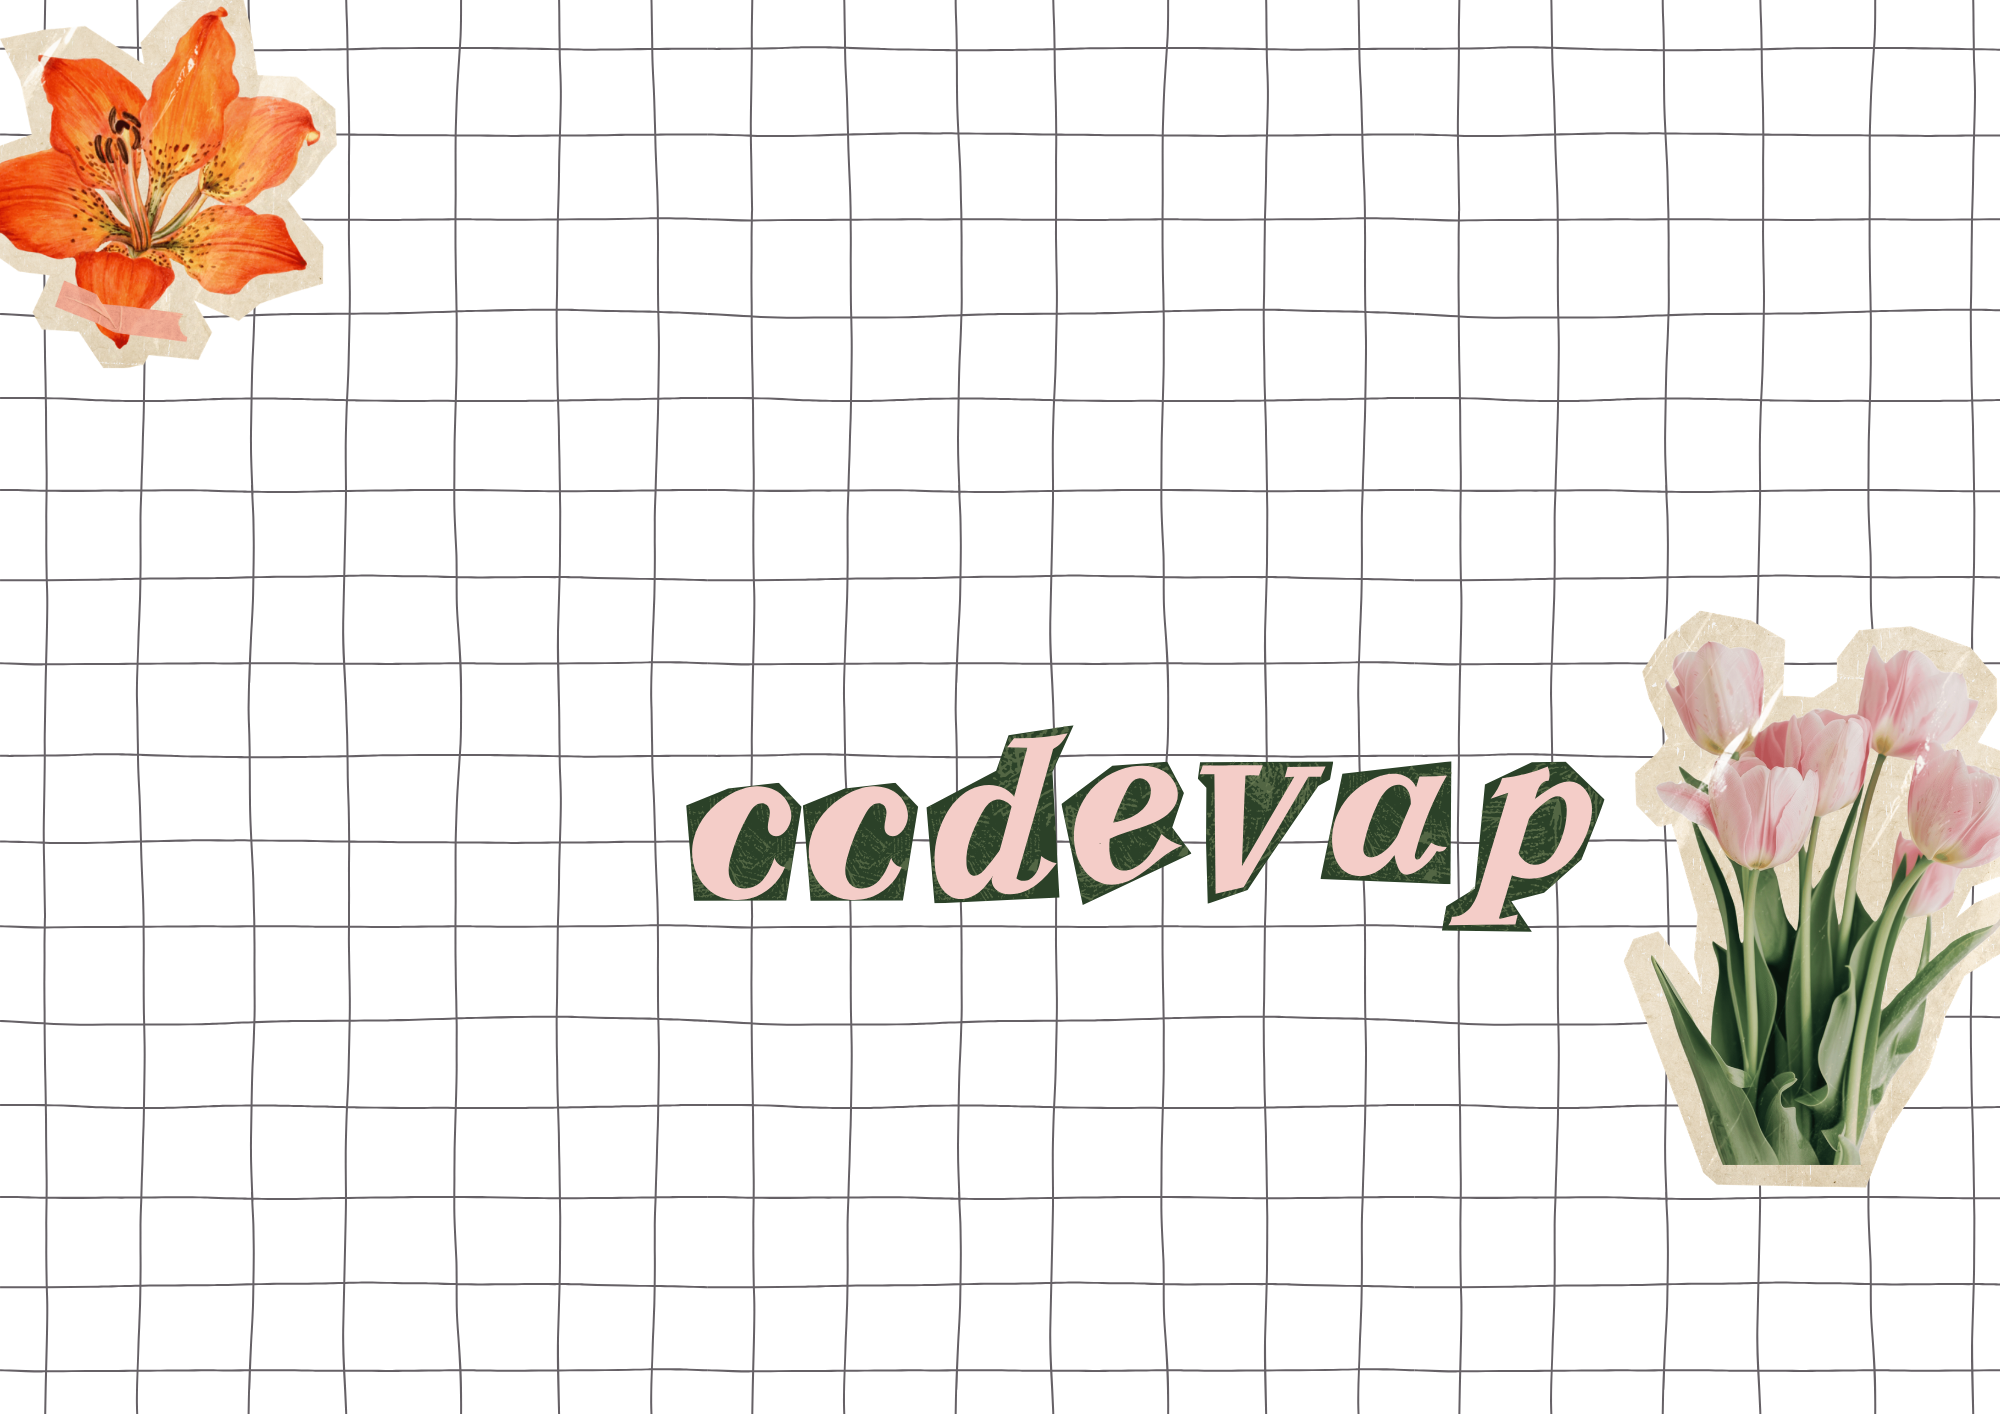
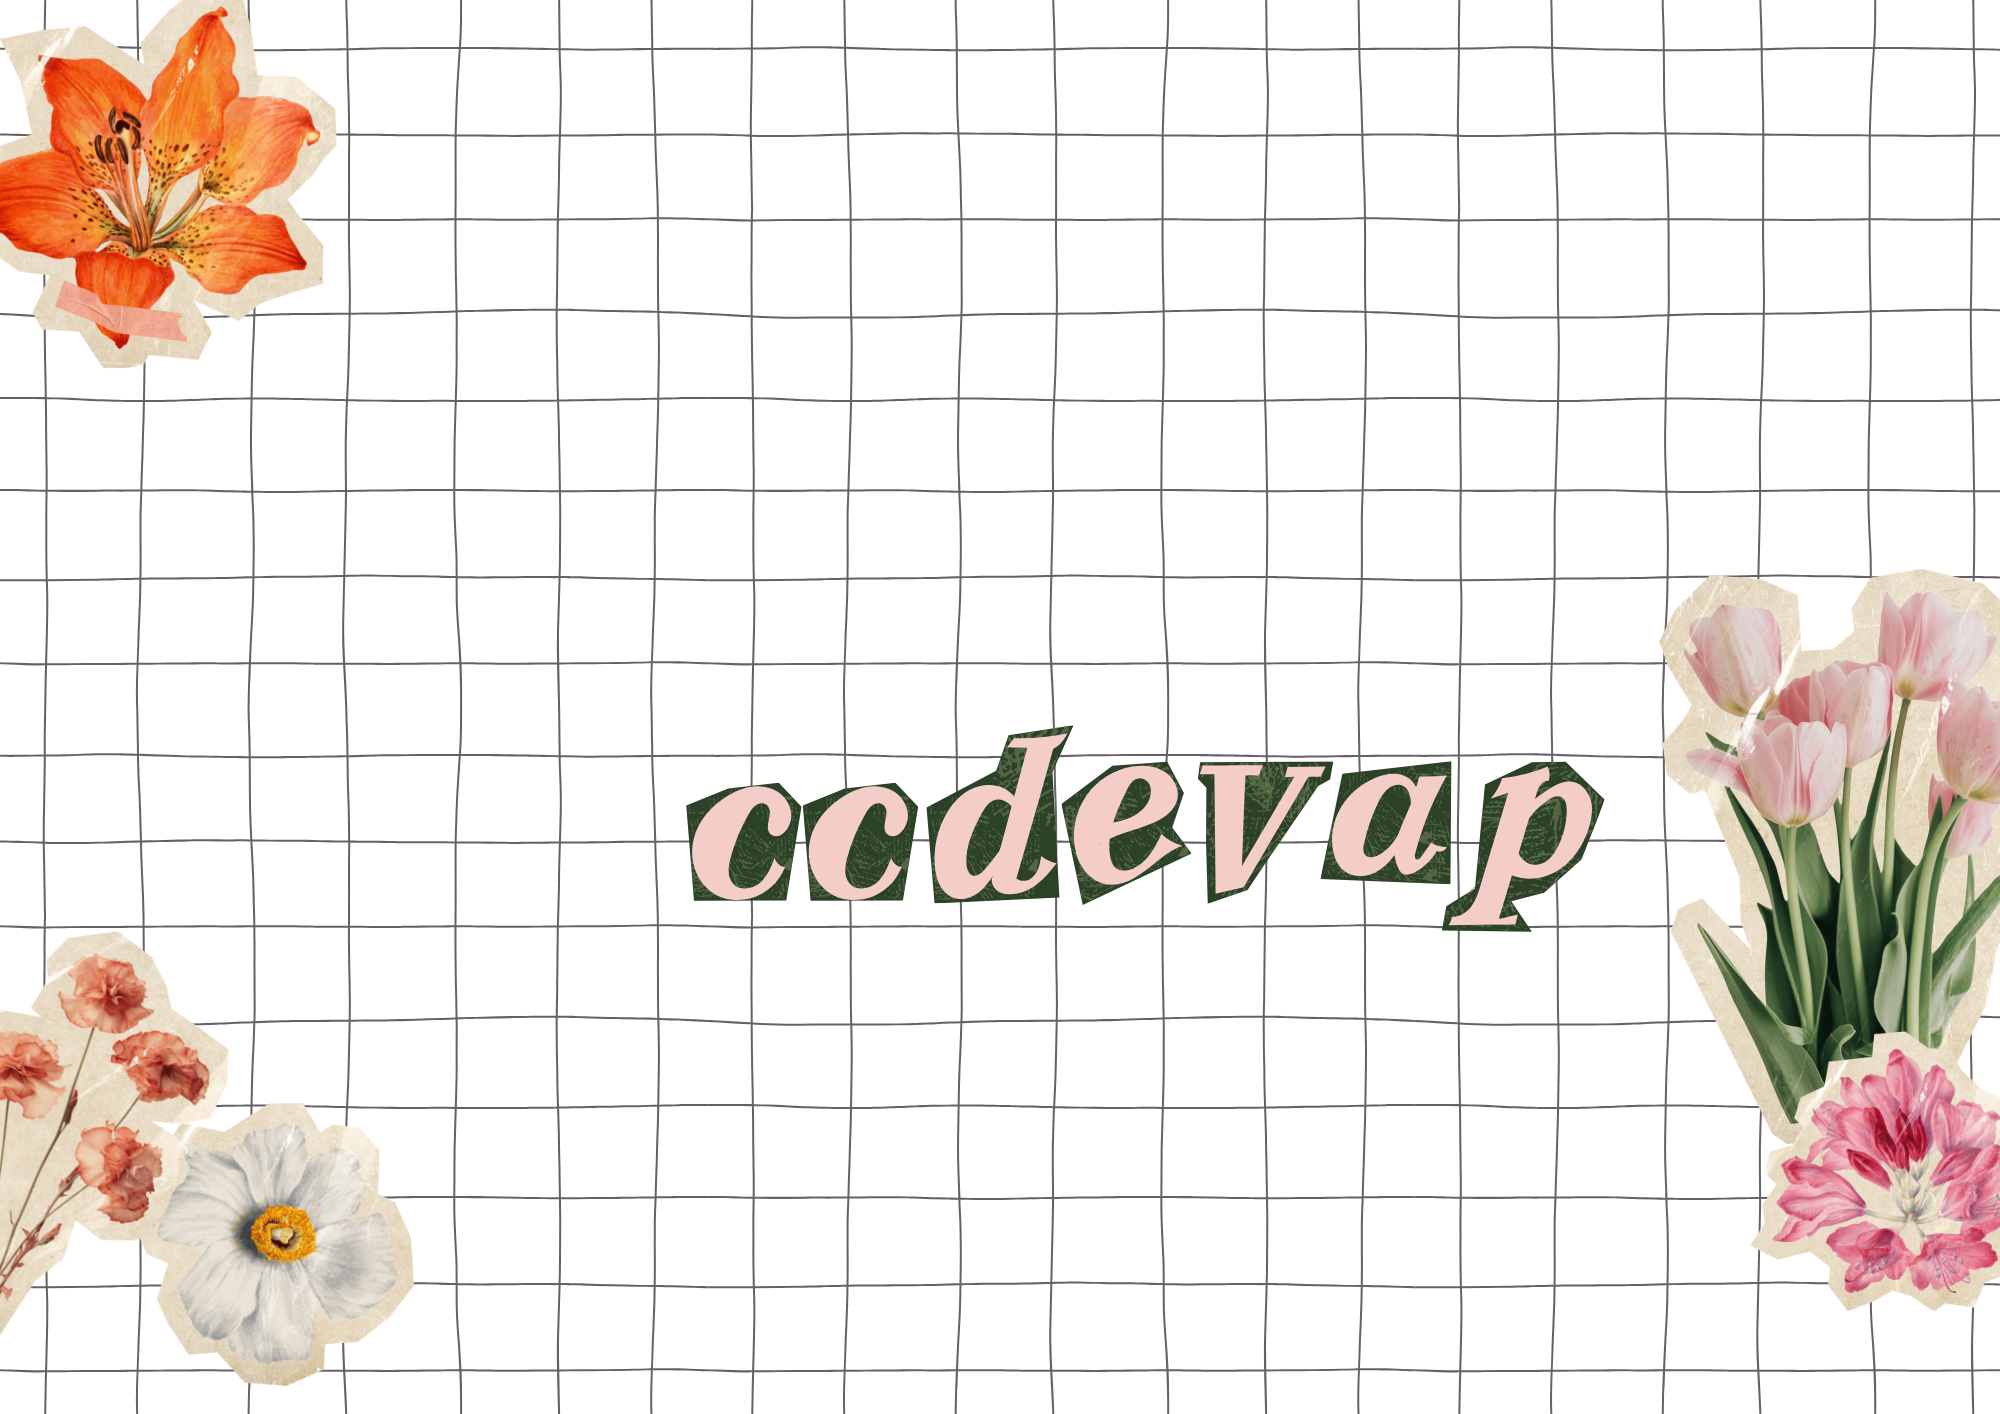
updated css

Changed region(s): [[0.806, 0.4045, 1.0, 0.9335], [0.0, 0.6535, 0.217, 0.9958]]

diff --git a/style.css b/style.css
@@ -16,19 +16,22 @@ header {
     outline: 1px solid black;
 }
 
+a {
+    color: black;
+}
+
 nav {
     display: flex;
     gap: 20px;
     font-size: 25px;
 }
 
-nav a {
+nav a{
     text-decoration: none;
-    /* font-size:25px; */
     color: black;
 }
 
-nav a:hover {
+nav a:hover, .top:hover, a:hover {
     color: rgb(180, 65, 180);
 }
 
@@ -53,7 +56,7 @@ select {
 
 footer {
     text-align: center;
-    margin-top: 100px;
+    margin-top: 50px;
 }
 
 .active {
@@ -91,7 +94,7 @@ footer {
     border: 1px solid black;
 }
 
-.intro p {
+.intro p, h3 {
     font-size: 24px;
     text-align: center;
 }
@@ -132,4 +135,23 @@ footer {
 .range input[type="range"] {
     width: 300px;
     accent-color: rgb(180, 65, 180);;
+}
+
+.contacts {
+    justify-self: center;
+    padding: 10px;
+    background-color: white;
+    width: 500px;
+    height: auto;
+    margin-top: 50px; 
+    outline: 2px solid black;
+}
+
+.top {
+    display: block;
+    margin: 55px auto;
+    width: fit-content;
+    color: black;
+    align-self: center;
+    font-weight: bold;
 }

diff --git a/index.html b/index.html
@@ -7,7 +7,7 @@
     <link rel="stylesheet" href="style.css">
 </head>
 <body>
-    <header>
+    <header id="top">
         <nav>
             <a href="index.html" class="active">Home</a> |
             <a href="currents.html">Currents</a>
@@ -15,7 +15,6 @@
     </header>
 
     <div class="container">
-        <a id="intro"></a>
         <aside class="intro">
             <img src="images/pfp.png" alt="Profile Picture" />
             <p>Hello<br>my name is...</p>
@@ -83,10 +82,14 @@
     </div>
 
     <div class="contacts">
-        <p>Contact Me: [email redacted]<br></p>
+        <h3>Contact Me</h3>
+        <ul>
+            <li>School Email: [email redacted]</li>
+            <li>Facebook: <a href="https://www.facebook.com/marinel.llaguno.7" target="_blank">Marinel Llaguno</a></li>
+        </ul>
     </div>
 
-    <a href="#intro"> Back to Profile </a>
+    <a href="#top" class="top">Back to Top</a>
 
     <footer>
         <p>CCDEVAP &copy; 2026</p>